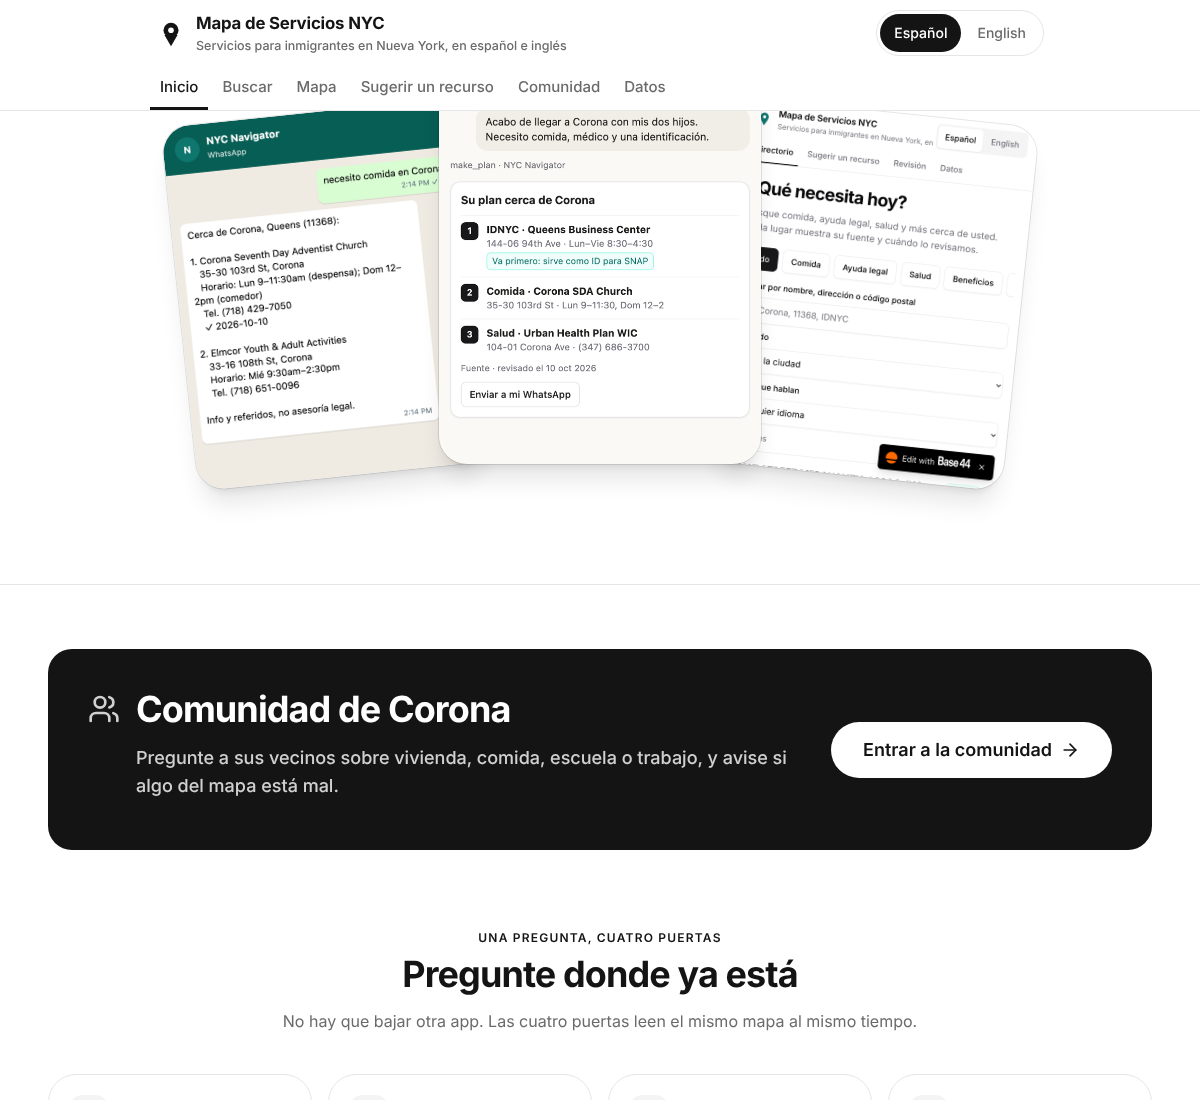
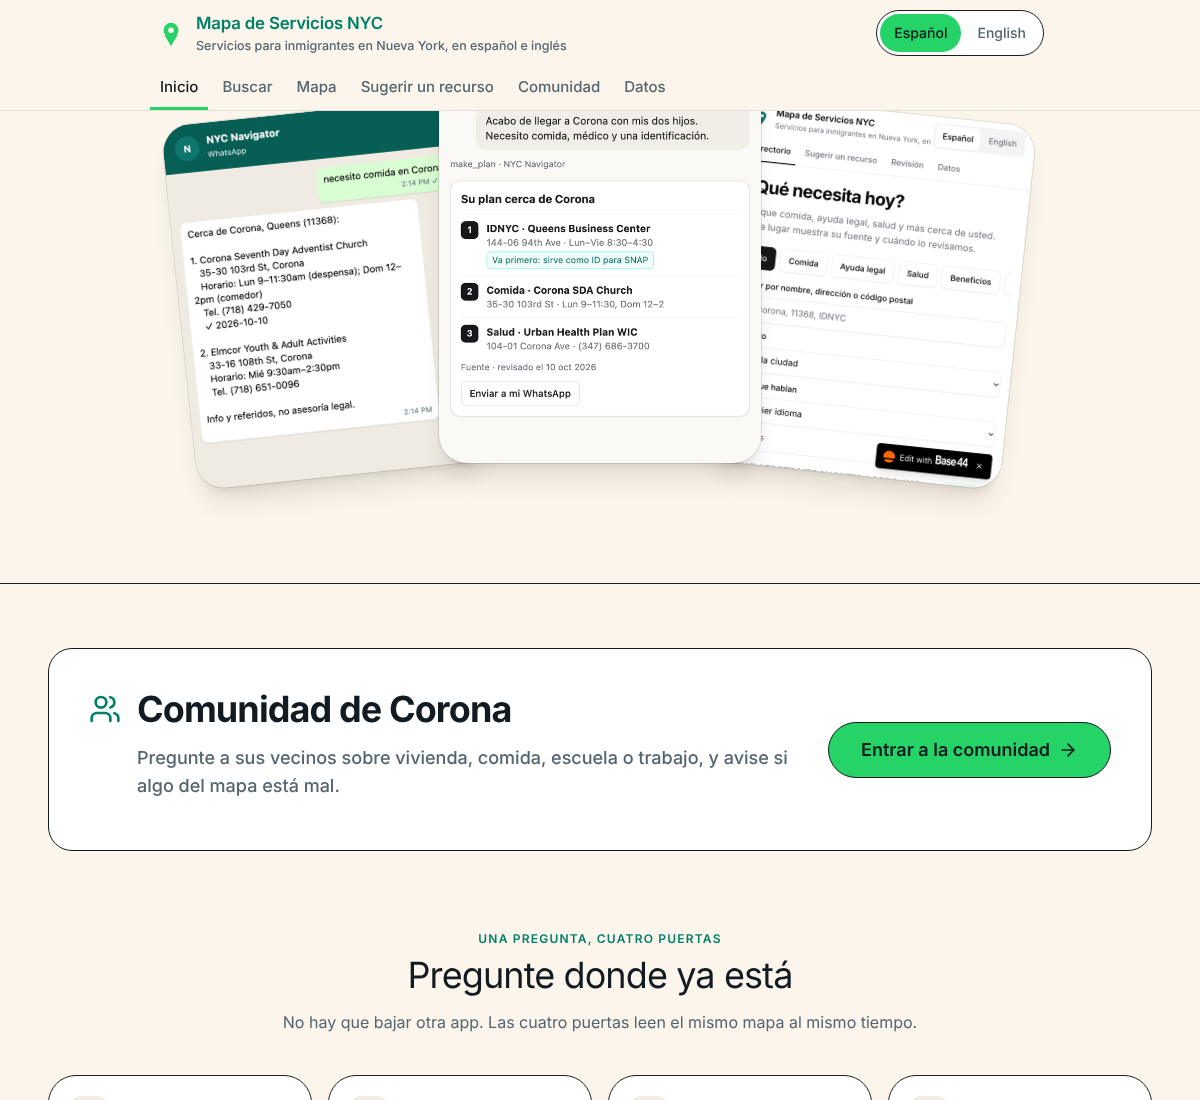
Match the cream/green look: /huggingface page and home community button
Claude-Session: https://claude.ai/code/session_01DQe1hoGYk5nxoxoUXRt4NX

diff --git a/web/public/huggingface/index.html b/web/public/huggingface/index.html
@@ -10,25 +10,25 @@
 <meta name="description" content="El grafo de conocimiento detrás del Mapa de Servicios NYC, publicado como datos abiertos en Hugging Face (CC BY 4.0).">
 <link rel="icon" href="/icon.svg">
 <link rel="preconnect" href="https://fonts.googleapis.com"><link rel="preconnect" href="https://fonts.gstatic.com" crossorigin><link href="https://fonts.googleapis.com/css2?family=Inter:wght@400;500;600;700;800&display=swap" rel="stylesheet">
-<style>:root{--bg:#fff;--card:#fff;--fg:#141414;--muted:#6b6b6b;--line:#e6e6e6;--soft:#f4f4f4;--accent:#141414;--green:#c8c8c8;--accent-soft:#f4f4f4}
-@media (prefers-color-scheme:dark){:root{--bg:#0d0d0d;--card:#161616;--fg:#f5f5f5;--muted:#9a9a9a;--line:#2a2a2a;--soft:#1f1f1f;--accent:#f5f5f5;--green:#555;--accent-soft:#1f1f1f}}
+<style>:root{--bg:#fcf5eb;--card:#fff;--fg:#111b21;--muted:#54656f;--line:#1c1e21;--soft:#f3ede4;--accent:#008069;--green:#25d366;--accent-soft:#e7fcef}
+@media (prefers-color-scheme:dark){:root{--bg:#0b141a;--card:#111b21;--fg:#e9edef;--muted:#8696a0;--line:#3b4a54;--soft:#202c33;--accent:#00a884;--green:#25d366;--accent-soft:#0f2a20}}
 *{box-sizing:border-box}body{margin:0;background:var(--bg);color:var(--fg);font:16px/1.6 Inter,system-ui,-apple-system,"Segoe UI",Roboto,sans-serif;-webkit-text-size-adjust:100%}
 a{color:var(--fg);font-weight:500;text-decoration:underline;text-decoration-color:var(--green);text-decoration-thickness:2px;text-underline-offset:4px}a:focus-visible,button:focus-visible{outline:2px solid var(--accent);outline-offset:2px;border-radius:4px}
 .wrap{max-width:860px;margin:0 auto;padding:16px 16px 48px}
 header.top{display:flex;flex-wrap:wrap;gap:8px 16px;align-items:center;justify-content:space-between;padding:4px 0 16px;border-bottom:1px solid var(--line);margin-bottom:20px}
 .brand{font-weight:700;text-decoration:none;color:var(--fg)}
 nav.top a{margin-left:12px;font-size:14px;color:var(--muted)}nav.top a:first-child{margin-left:0}
-h1{font-size:34px;line-height:1.08;margin:0 0 10px;letter-spacing:-.04em;font-weight:800}h2{font-size:20px;margin:28px 0 8px;letter-spacing:-.03em;font-weight:700}
+h1{font-size:30px;line-height:1.15;margin:0 0 10px;letter-spacing:-.02em;font-weight:700}h2{font-size:20px;margin:28px 0 8px;letter-spacing:-.03em;font-weight:700}
 .eyebrow{font-size:13px;font-weight:600;color:var(--muted);margin:0 0 6px}
 .lead{font-size:18px;margin:0 0 16px}
 .card{background:var(--card);border:1px solid var(--line);border-radius:28px;padding:22px;margin:16px 0}
 .stats{display:grid;grid-template-columns:repeat(3,minmax(0,1fr));gap:10px;margin:16px 0}
-.stat{border:1px solid var(--line);border-radius:22px;padding:14px 16px}.stat b{display:block;font-size:28px;font-weight:800;letter-spacing:-.03em;line-height:1.1}.stat span{font-size:14px;color:var(--muted)}
-.btns{display:flex;flex-wrap:wrap;gap:8px;margin-top:14px}.btn{display:inline-flex;align-items:center;min-height:48px;padding:0 22px;border-radius:999px;font:inherit;font-weight:600;text-decoration:none;border:1px solid var(--line);color:var(--fg);background:var(--card);cursor:pointer}.btn.p{background:var(--fg);border-color:var(--fg);color:var(--bg)}
-.tabs{display:flex;flex-wrap:wrap;gap:6px;margin:0 0 10px}.tabs button{min-height:40px;padding:0 16px;border-radius:999px;border:1px solid var(--line);background:var(--card);color:var(--fg);font:inherit;font-size:14px;font-weight:500;cursor:pointer}.tabs button[aria-pressed="true"]{background:var(--fg);color:var(--bg);border-color:var(--fg)}
+.stat{border:1px solid var(--line);border-radius:22px;padding:14px 16px}.stat b{display:block;font-size:28px;font-weight:700;color:var(--accent);letter-spacing:-.03em;line-height:1.1}.stat span{font-size:14px;color:var(--muted)}
+.btns{display:flex;flex-wrap:wrap;gap:8px;margin-top:14px}.btn{display:inline-flex;align-items:center;min-height:48px;padding:0 22px;border-radius:999px;font:inherit;font-weight:600;text-decoration:none;border:1px solid var(--line);color:var(--fg);background:var(--card);cursor:pointer}.btn.p{background:var(--green);border-color:var(--line);color:#111b21}
+.tabs{display:flex;flex-wrap:wrap;gap:6px;margin:0 0 10px}.tabs button{min-height:40px;padding:0 16px;border-radius:999px;border:1px solid var(--line);background:var(--card);color:var(--fg);font:inherit;font-size:14px;font-weight:500;cursor:pointer}.tabs button[aria-pressed="true"]{background:var(--green);color:#111b21;border-color:var(--line)}
 .search{width:100%;min-height:48px;padding:0 16px;border:1px solid var(--line);border-radius:999px;background:var(--card);color:var(--fg);font:inherit;margin:0 0 10px}
 .table-wrap{border:1px solid var(--line);border-radius:22px;overflow:auto;max-height:560px}
-table{border-collapse:collapse;width:100%;font-size:14px}th,td{text-align:left;vertical-align:top;padding:8px 12px;border-bottom:1px solid var(--line)}th{position:sticky;top:0;background:var(--soft);font-weight:600;white-space:nowrap}td{min-width:120px}td.wide{min-width:260px}
+table{border-collapse:collapse;width:100%;font-size:14px}th,td{text-align:left;vertical-align:top;padding:8px 12px;border-bottom:1px solid var(--soft)}th{position:sticky;top:0;background:var(--soft);font-weight:600;white-space:nowrap}td{min-width:120px}td.wide{min-width:260px}
 tr:last-child td{border-bottom:0}
 pre{margin:8px 0;padding:14px 16px;border-radius:14px;background:var(--soft);overflow-x:auto;font-size:14px;line-height:1.5}code{font-family:ui-monospace,SFMono-Regular,Menlo,Consolas,monospace}
 ul{padding-left:22px;margin:8px 0}li{margin:4px 0}

diff --git a/web/src/pages/Home.tsx b/web/src/pages/Home.tsx
@@ -198,16 +198,16 @@ export function Home() {
       <section className="mx-auto w-full max-w-6xl px-6 pt-12 sm:pt-16" aria-labelledby="community-band">
         <a
           href={HREF.community}
-          className="bg-foreground text-background flex flex-col gap-6 rounded-3xl p-8 no-underline sm:flex-row sm:items-center sm:justify-between sm:p-10"
+          className="bg-card border-foreground text-foreground flex flex-col gap-6 rounded-3xl border p-8 no-underline sm:flex-row sm:items-center sm:justify-between sm:p-10"
         >
           <div className="flex min-w-0 items-start gap-4">
-            <Users className="mt-1 size-8 shrink-0 opacity-80" />
+            <Users className="text-brand mt-1 size-8 shrink-0" />
             <div className="min-w-0">
               <h2 id="community-band" className="font-sans text-3xl font-bold tracking-tight sm:text-4xl">{c.commTitle}</h2>
-              <p className="mt-2 max-w-2xl text-base opacity-80 sm:text-lg">{c.commBody}</p>
+              <p className="text-muted-foreground mt-2 max-w-2xl text-base sm:text-lg">{c.commBody}</p>
             </div>
           </div>
-          <span className="bg-background text-foreground inline-flex min-h-14 shrink-0 items-center justify-center rounded-full px-8 text-lg font-semibold">
+          <span className="bg-primary text-primary-foreground border-foreground inline-flex min-h-14 shrink-0 items-center justify-center rounded-full border px-8 text-lg font-semibold">
             {c.commCta}<ArrowRight className="ml-2 size-5" />
           </span>
         </a>
